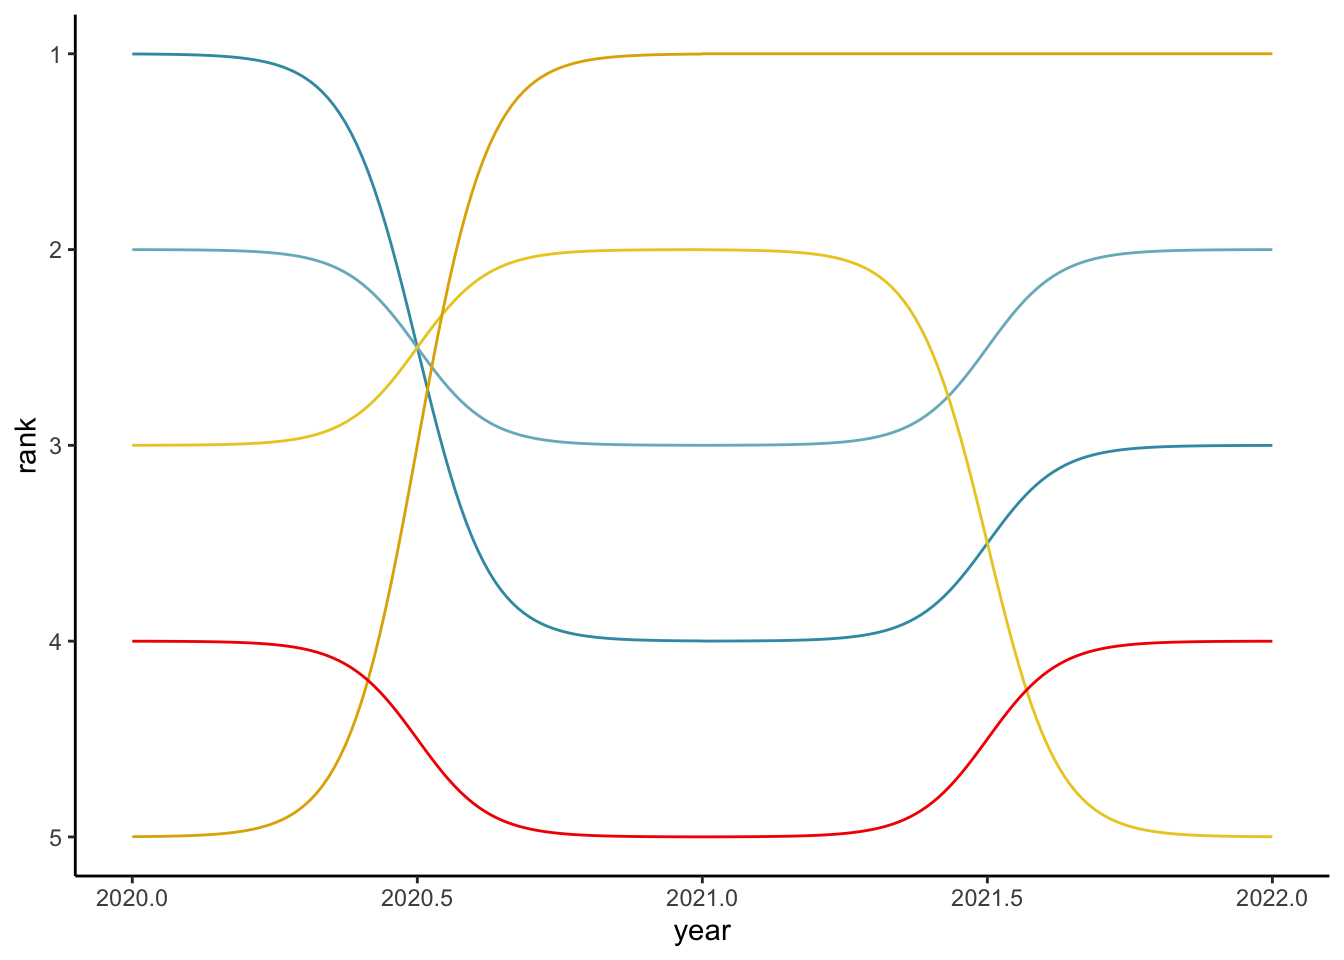
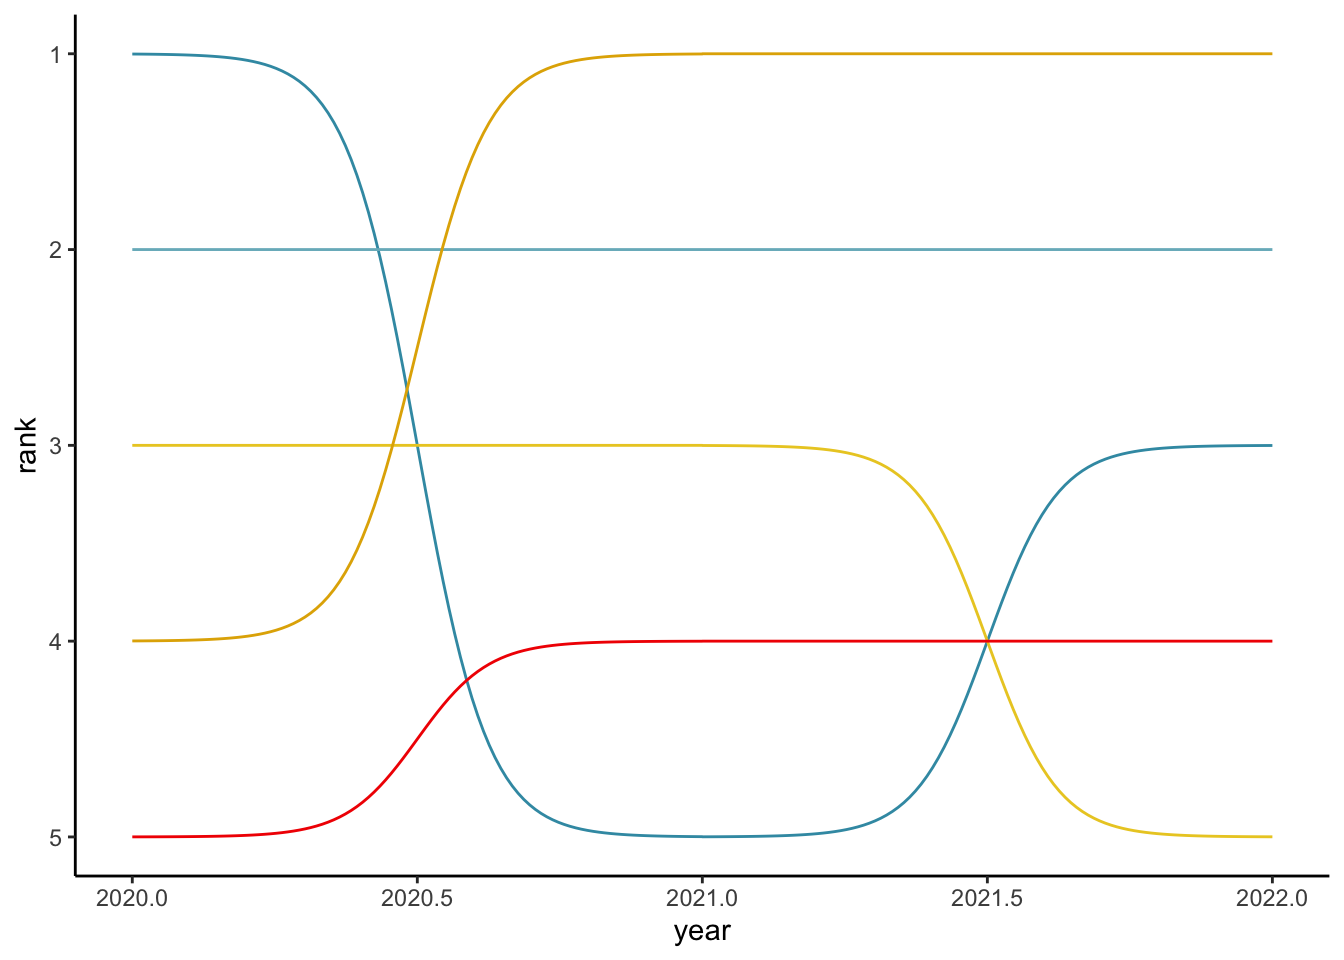
Initial commit

diff --git a/_site/posts/220220_ggbump-package/index.html b/_site/posts/220220_ggbump-package/index.html
@@ -420,11 +420,11 @@ cookieconsent.run({
 <pre><code># A tibble: 6 × 4
   country  year value  rank
   &lt;chr&gt;   &lt;dbl&gt; &lt;dbl&gt; &lt;int&gt;
-1 Korea    2020   500     5
+1 Korea    2020   500     4
 2 Korea    2021   200     1
 3 Korea    2022   100     1
 4 Japan    2020   400     3
-5 Japan    2021   300     2
+5 Japan    2021   300     3
 6 Japan    2022   400     5</code></pre>
 </div>
 </div>
@@ -449,7 +449,7 @@ cookieconsent.run({
 <p>부드러운 시그모이드 곡선으로 이뤄진 범프 차트가 만들어졌습니다. scale_color_manual에 들어있는 wes_palette는 이름에서 유추할 수 있듯 웨스 앤더슨 감독의 색감이 담긴 컬러 팔레트입니다. 이 차트에서는 웨스 앤더슨 감독의 2004년 작 &lt;스티브 지소와의 해저 생활(The Life Aquatic With Steve Zissou)&gt;의 색상을 사용했습니다.</p>
 <div class="quarto-figure quarto-figure-center">
 <figure class="figure">
-<p><img src="zissou.gif" class="img-fluid figure-img" style="width:100.0%"></p>
+<p><img src="zissou.gif" class="img-fluid figure-img" style="width:50.0%"></p>
 <figcaption>The Life Aquatic with Steve Zissou, Wes Anderson</figcaption>
 </figure>
 </div>

diff --git a/_site/index.html b/_site/index.html
@@ -665,7 +665,7 @@ Visualization
 </a>
 </div>
 </div>
-<div class="quarto-post image-right" data-index="10" data-categories="R package,ggbump" data-listing-date-sort="1645282800000" data-listing-file-modified-sort="1661178764424" data-listing-date-modified-sort="NaN" data-listing-reading-time-sort="6" data-listing-word-count-sort="1046">
+<div class="quarto-post image-right" data-index="10" data-categories="R package,ggbump" data-listing-date-sort="1645282800000" data-listing-file-modified-sort="1709388480209" data-listing-date-modified-sort="NaN" data-listing-reading-time-sort="6" data-listing-word-count-sort="1046">
 <div class="thumbnail">
 <p><a href="./posts/220220_ggbump-package/index.html" class="no-external"></a></p><a href="./posts/220220_ggbump-package/index.html" class="no-external">
 <p class="card-img-top"><img src="posts/220220_ggbump-package/thumbnail.png"  class="thumbnail-image card-img"/></p>
